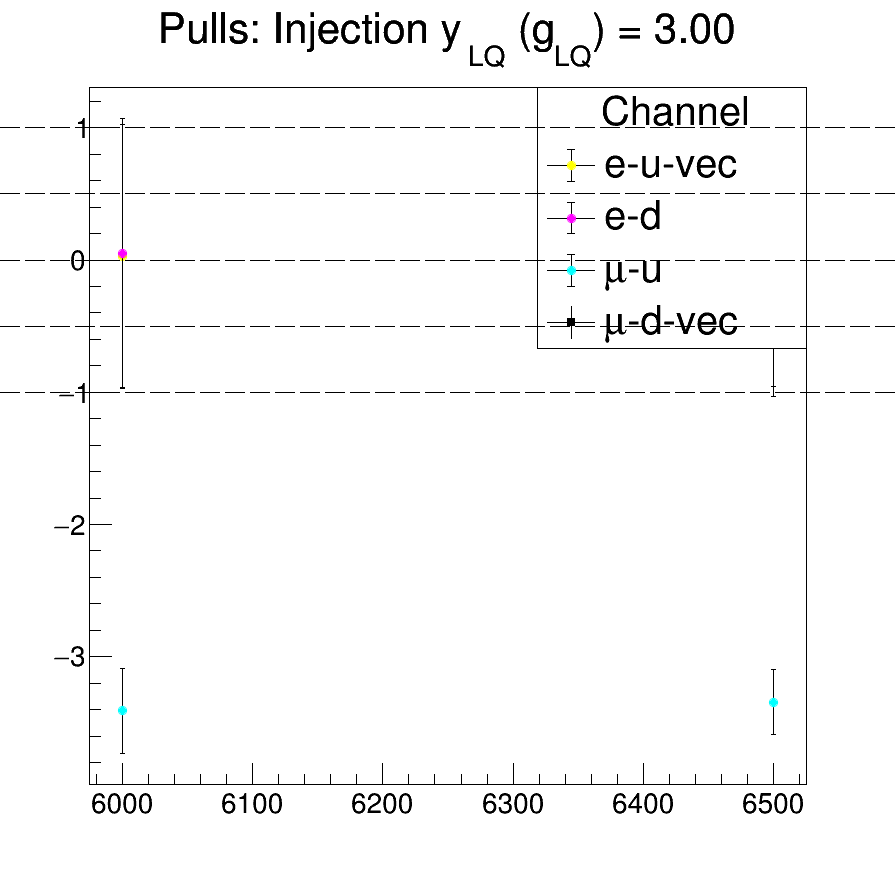
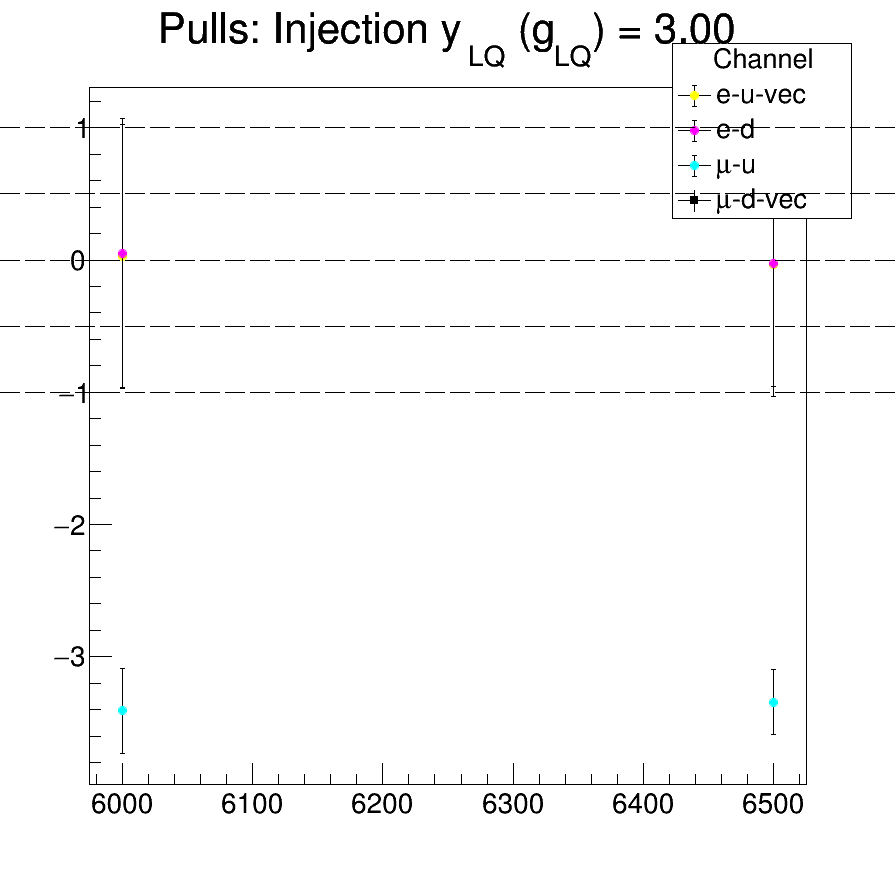
6000 3.0

Changed region(s): [[0.625, 0.0619, 0.9062, 0.2787], [0.625, 0.3096, 0.8125, 0.4025], [0.8438, 0.2787, 0.875, 0.3096]]

diff --git a/analyze/combine/AFB_fits/scripts/LQ_do_bias_test.py b/analyze/combine/AFB_fits/scripts/LQ_do_bias_test.py
@@ -140,7 +140,7 @@ else:
     
     for options.yLQ in [3.0]:
         c4 = TCanvas("c4", "", 900, 900)
-        leg = TLegend(0.6,0.6,0.9,0.9)
+        leg = TLegend(0.75,0.75,0.95,0.95)
         leg.SetHeader("Channel","C")
 	mg = TMultiGraph()
         l1 = TLine(5000,-1,7000,-1)
